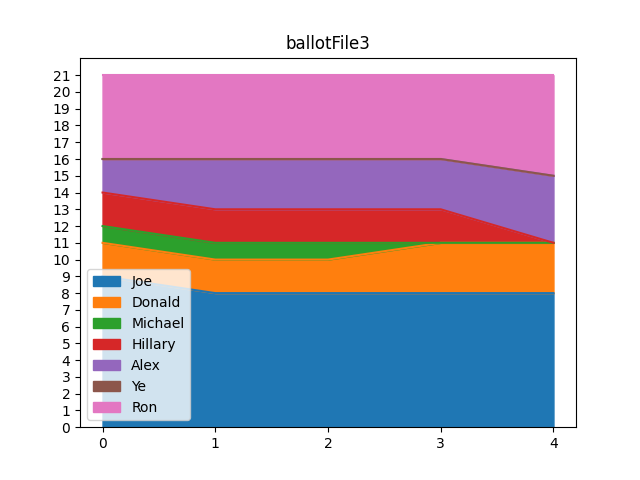
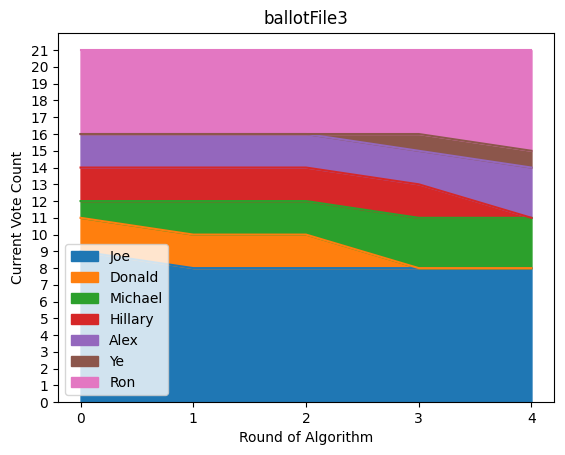
add labels

diff --git a/visualization.py b/visualization.py
@@ -6,7 +6,7 @@ import matplotlib.pyplot as plt
 df = pd.read_csv("graphFiles/ballotFile3.csv")
  
 # plot
-df.plot.area(title = "ballotFile3", yticks = np.arange(0,22,1), xticks = np.arange(0,5,1))
+df.plot.area(title = "ballotFile3", xlabel = "Round of Algorithm", ylabel = "Current Vote Count",yticks = np.arange(0,22,1), xticks = np.arange(0,5,1))
 
 # show the graph
 plt.show()
